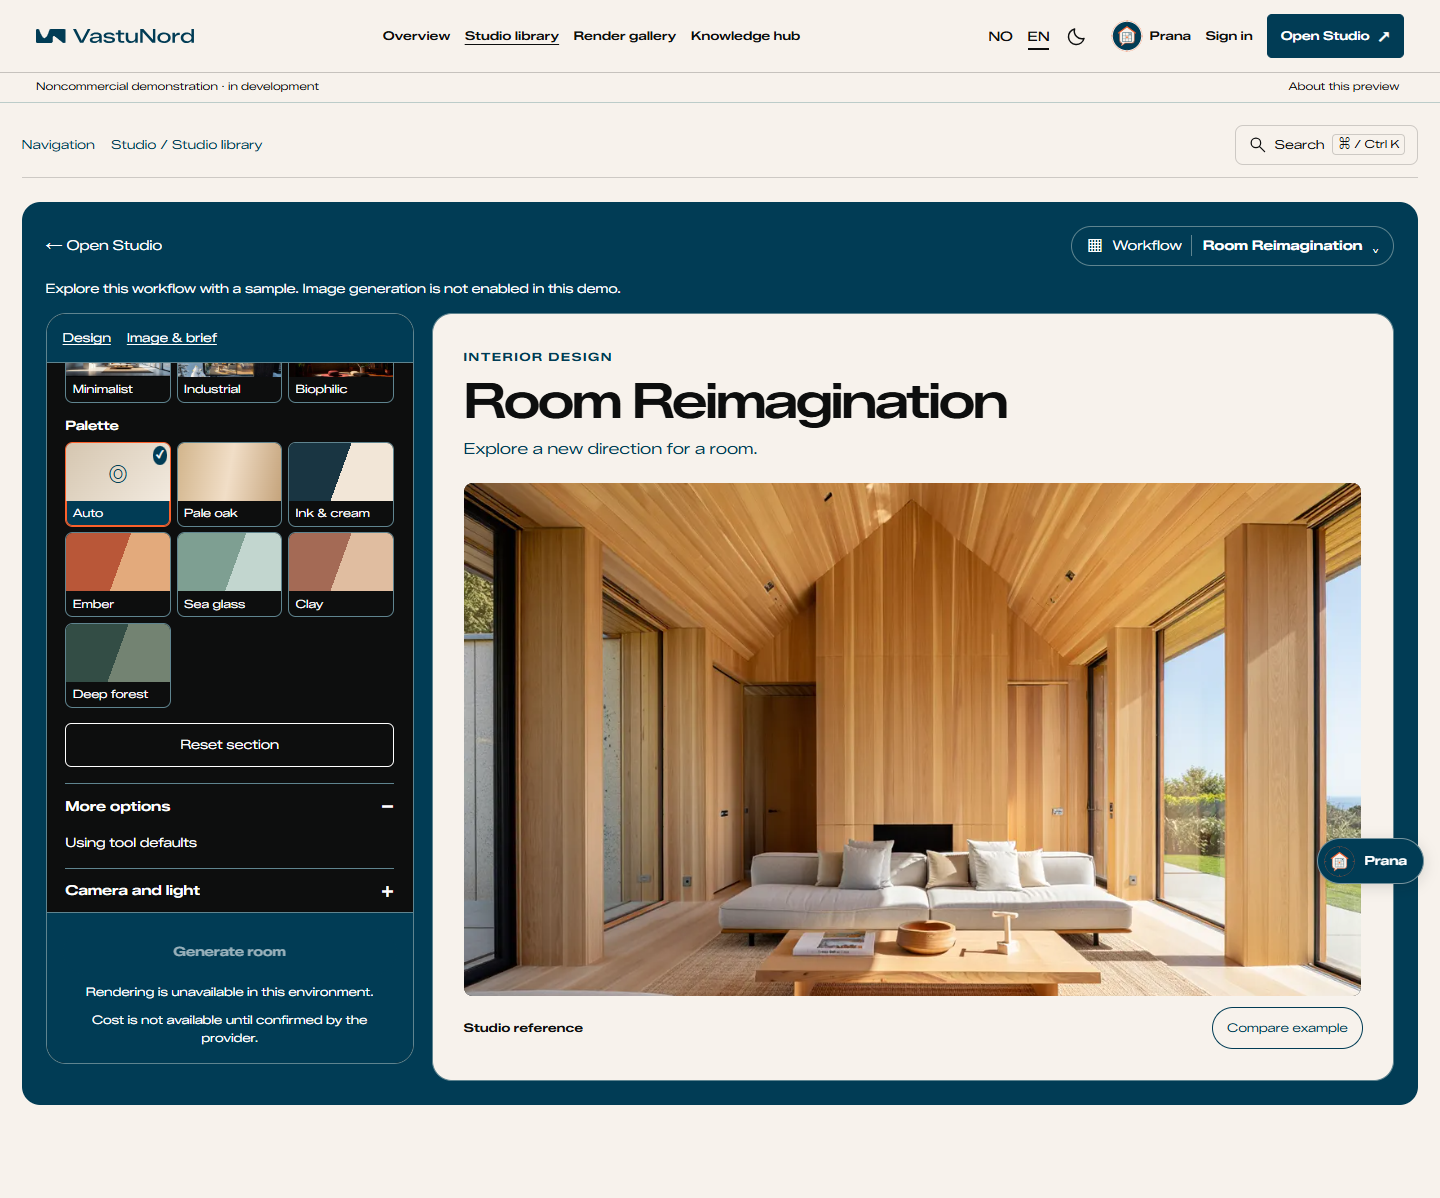
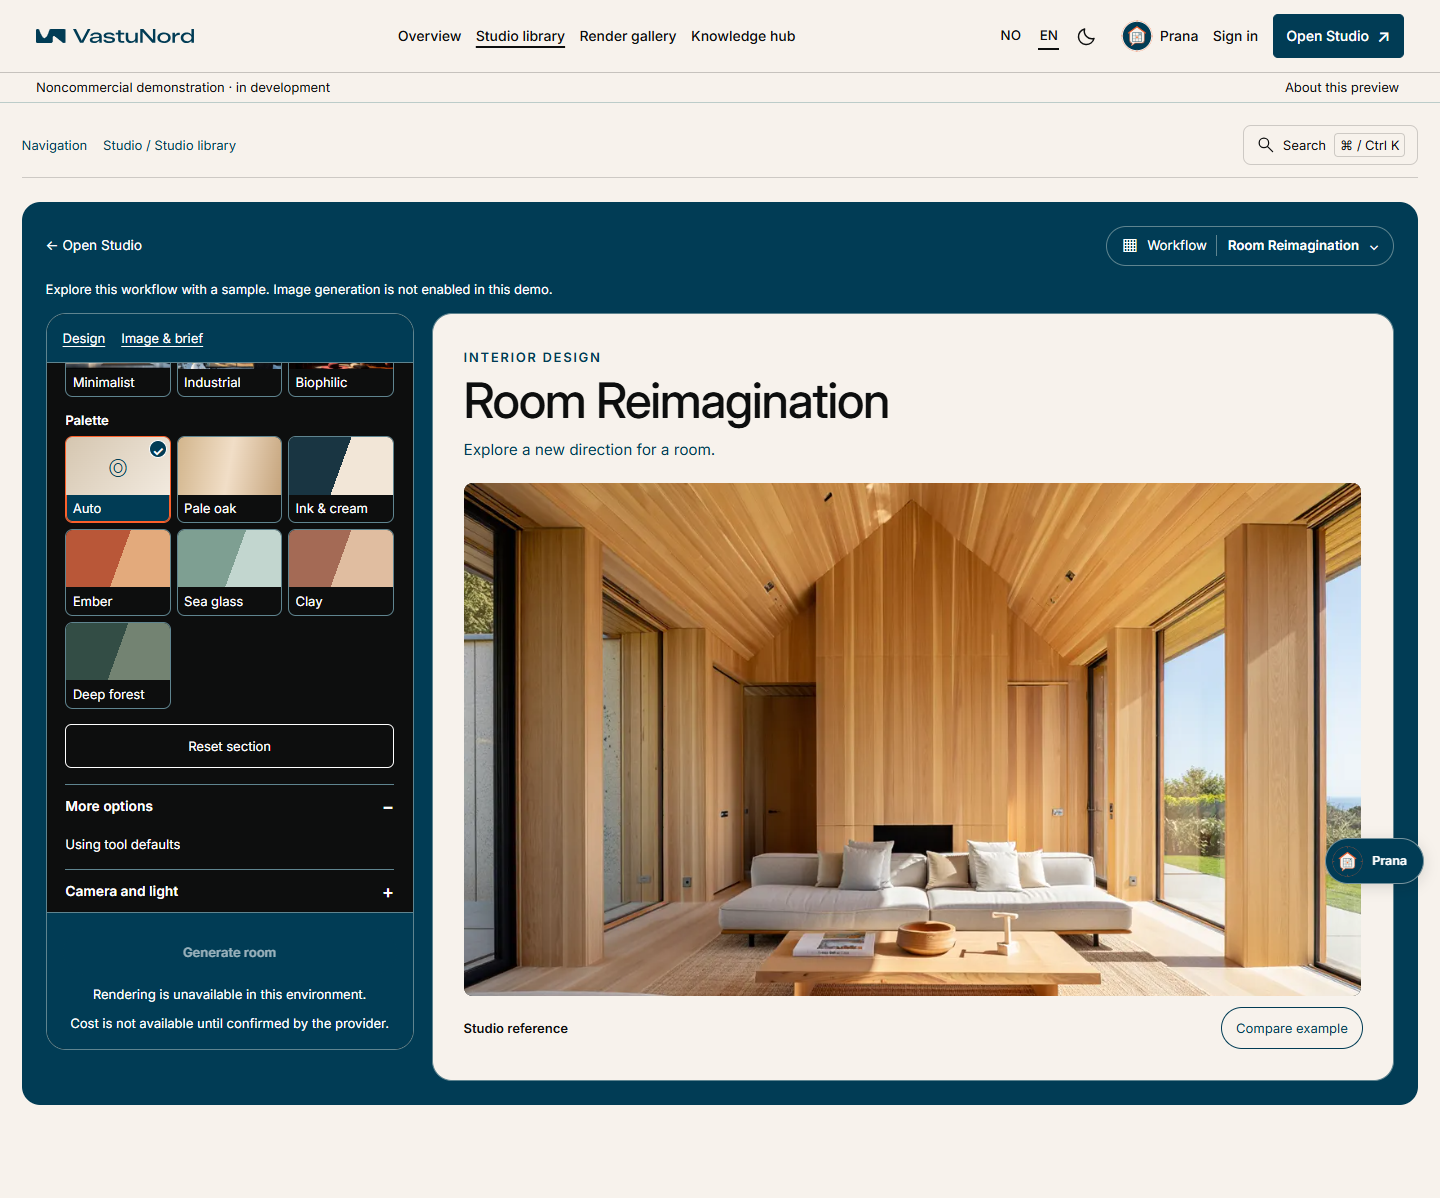
Record verified public release, provider evidence and Production schema blocker

diff --git a/apps/web/tests/newsletter-browser/axe-broad.spec.ts b/apps/web/tests/newsletter-browser/axe-broad.spec.ts
@@ -6,9 +6,10 @@ const plugin = createRequire(createRequire(require.resolve("eslint-config-next")
 const axeScript = plugin.resolve("axe-core/axe.min.js");
 
 for (const theme of ["light", "dark"]) {
-  for (const route of ["/en", "/en/login", "/app/tools/room-reimagination", "/app/renders"]) {
+  for (const route of ["/", "/en", "/en/login", "/app/tools/room-reimagination", "/app/renders"]) {
     test(`axe WCAG-tagged sample on ${route} in ${theme}`, async ({ page, context }) => {
-      await page.setViewportSize({ width: 390, height: 844 });
+      const home = route === "/" || route === "/en";
+      await page.setViewportSize(home ? { width: 375, height: 568 } : { width: 390, height: 844 });
       await context.addCookies([{ name: "vn-theme", value: theme, url: "http://127.0.0.1:3111" }]);
       await page.addInitScript(() => {
         localStorage.setItem("vn-cookie-choices", JSON.stringify({ version: 1, decidedAt: new Date().toISOString(), statistics: false, marketing: false }));
@@ -16,6 +17,16 @@ for (const theme of ["light", "dark"]) {
       });
       await page.route("https://**/*", (route) => route.abort());
       await page.goto(route);
+      if (home) {
+        await expect(page.locator("html")).toHaveAttribute("lang", route === "/" ? "nb-NO" : "en");
+        const cta = page.locator(".photo-hero-actions .mk-action").first();
+        await expect(cta).toHaveCSS("font-size", "24px");
+        const usesLocalFont = await cta.evaluate(async (element) => {
+          const faces = await document.fonts.load('600 24px "Inter Variable"');
+          return faces.length > 0 && getComputedStyle(element).fontFamily.includes("Inter Variable");
+        });
+        expect(usesLocalFont).toBe(true);
+      }
       await page.addScriptTag({ path: axeScript });
       const result = await page.evaluate(async () => {
         const axe = (window as unknown as { axe: { run: (context: Document, options: unknown) => Promise<{ violations: { id: string; nodes: { target: string[]; html: string; failureSummary?: string }[] }[]; incomplete: { id: string; nodes: { target: string[] }[] }[] }> } }).axe;

diff --git a/docs/GO_LIVE_EXECUTION.md b/docs/GO_LIVE_EXECUTION.md
@@ -1,5 +1,31 @@
 # Hobby test release execution
 
+## 28 November · Controlled activation and provider preflight
+
+Two Vercel API lookups independently resolved the public alias and source revision. Four public routes and all 17 Studio editors passed on the public hostname. The guide toggle worked, and homepage/Studio passed 32 responsive checks across English and Norwegian, light and dark, and 390/768/1280/1440-pixel widths. [Public response record](evidence/designer-parity/public-origin.json) · [Live screenshots](evidence/maya-live/ui11/)
+
+| Production journey | Latest evidence |
+|---|---|
+| Signup, verification, original-password sign-in, recovery and return | BLOCKED by the missing schema. The protected binding and approved sender configuration passed. Better Auth workflow checks passed with isolated data. |
+| Google new user, returning sign-in, cancel, callback and linking | BLOCKED for live accounts. The correct public client reached Google sign-in. Controlled cancellation and locale handling passed locally. |
+| Owned project and private source/reference upload | BLOCKED. Storage identity is configured. Real user storage and access await account and project tables. |
+| MNML submission, job attachment, before/after, download and fresh-session reopening | BLOCKED. Price/balance discovery passed live. Disposable database tests exercised persistence and private result access. |
+| Anonymous and second-user denial | Closed public services returned 503. Anonymous private-artifact denial is NOT TESTED on Production. Live second-user isolation is PENDING. |
+| Prana | PASS for the two synthetic provider calls. Authenticated public-origin replies await account activation. |
+| Billing | DISABLED. The temporary rendering allowance only covers the authorized tester. |
+
+**Local verification.** Prisma validation and manifest integrity, TypeScript, ESLint and the optimized Next.js build passed. All 80 unit tests passed. Disposable database tests passed for render persistence, ownership, withdrawal, runtime grants, bounded enrollment and reservation retention. Three localized authentication browser tests passed. The initial broad smoke run passed 170 of 173 tests; the three failures were outdated assertions about local file selection, language and reveal direction. The initial newsletter/overlay run passed 88 of 94 tests; six detected the orange hero CTA contrast defect. After repair, all 26 affected Studio/hero tests and all 30 contrast/reflow tests passed on the final build. The staged and public results above are recorded separately.
+
+**Promoted application:** `063004adab6cb724a9c991a16f5bf48551f76bdd` on `feat/v7-brand-photo-entry`, deployment `dpl_73u64PMMRJcCDaVeYCm9JsEUKNdD`. **Application rollback:** `dpl_J7A2mFG1SnhoJoB4aUnrGVrFp8oh`, revision `672577a7c17298b8d52bf1c17f305b85c71ef1c2`. Promotion reused the staged Production artifact. The provider probe again passed all nine checks. Private service flags, GitHub/Apple OAuth, newsletter and billing remain disabled. Rollback reassigns application traffic and does not restore database state.
+
+Vercel staged `1ed73d499b9b3f88419c585bac1973f322f7d690` as `dpl_6FqmCCGhj4gL4vaVmDTLEesWJXh2`. The read-only build connected as the intended restricted Production runtime. All nine protected configuration/provider checks passed after correcting the Google client ID. Two fixed synthetic consultation questions through the real Prana adapter returned relevant short answers in English and Norwegian from GroqCloud. This exercised the provider directly in the staged build. The visitor-facing consultation still requires an authenticated tester. Chat charges were not itemized by this check. A public OAuth initiation reached Google's sign-in screen with the exact approved callback; neither consent nor account linking was exercised on Production.
+
+Production database `neondb` on `br-wild-unit-bhin6sli` remains empty. The connector verified the restricted runtime identity, zero public application tables, absent Prisma history, and absent `vastunord_prod_migrator`. Recovery child `br-royal-mode-bh8zoq0h` is available from parent LSN `0/1C57580`. A whole-branch restore remains untested. Preserve the recovery point, validate a reconstructed child before any recovery, and obtain separate authorization for a destructive restore.
+
+All six migration hashes passed. Automatic approval review rejected the requested Production login and schema CREATE grant. No migration, runtime grant or tester enrollment ran on Production. Once approved, use the protected `scripts/run-production-migration.ps1` status check, `-Apply`, a second status check and `-RuntimeGrants`. Enable controlled authentication first. After verifying the invited account and private storage, use `-EnrollTester`; it verifies compatible existing history, preserves holds and never extends an existing campaign. The first Production enrollment would start a 24-hour acceptance window. Budget administration remains outside the web runtime.
+
+Historical job `674349` counts conservatively as one attempt and US$0.099. This execution submitted zero MNML jobs, incurred US$0 in new render charges, and added no holds. Five further attempts and US$0.495 remain at most. No automatic retries following an uncertain submission. Public commercial operation requires eligible hosting; controlled acceptance uses the existing Hobby plan. [Vercel Hobby terms](https://vercel.com/docs/plans/hobby)
+
 ## 28 November · Studio demonstration release
 
 Vercel promoted application revision `672577a7c17298b8d52bf1c17f305b85c71ef1c2`, deployment `dpl_J7A2mFG1SnhoJoB4aUnrGVrFp8oh`, to [the public demo](https://vastunord-web.vercel.app/). The immediate application rollback is `dpl_jKKoVxyVLSkVCZgDEGdcHeqHazrj` from `4c8a8409f1616686acf30f2a52ee565283f08cab`. The build confirmed the restricted Production database connection and missing schema. Customer onboarding, uploads, paid dispatch and billing remain closed.

diff --git a/docs/MAYA_VERIFICATION.md b/docs/MAYA_VERIFICATION.md
@@ -23,3 +23,15 @@ These results use synthetic local data and controlled provider responses. They d
 | MAYA-C08 | PARTIAL | Local unit suite: 66 passed. The 164-test shared browser regression passed on the prior built candidate; the final Webpack build passed after read-only settings and mobile reset refinements. A targeted final browser recheck covers those layout refinements. Full Maya acceptance and live gates are not complete. |
 
 Update: the additive migration `20261127_maya_submission_settings` was applied to Preview using the reviewed target-pinned Prisma procedure, with its checksum and runtime column permissions verified. The separate newsletter migration remains pending; runtime application save/read and release/Production migration remain unverified. No new paid render, production change, push or deployment occurred.
+
+## Workflow image review, November 28
+
+The library, workflow switcher and gallery picker share stable tool IDs. Fourteen cards now show paired examples. Three retain the original owner photographs of paving, pool geometry and garden planting. All seventeen were inspected at a 231 × 140 crop. The five generated comparison studies are illustrative examples produced with the built-in image tool; they contain no customer media or MNML results. The remaining illustrations use owner-approved BeforeAfter, Maya pack and Visuals imagery. The hallway choice uses a corridor photograph and the sketch choice uses the Maya pencil study.
+
+[Small-card contact sheet](evidence/maya-local/workflow-crops.webp) · [Image sources, dimensions, crops and derivative checksums](evidence/maya-local/workflow-art.json).
+
+On the source candidate recorded as `1ed73d4`, local Edge verified all eleven hero pairs in sequence with a controlled clock, including both endpoints, the midpoint, wrap, reload and a deliberate keyboard pause. All four hero cases passed on the warmed server. The initial Webpack route compilation took 31 seconds and exceeded one test’s 30-second limit. The five pool-mode and responsive Room Reimagination tests also passed. Sixteen combinations of 390/768/1280/1440px, Norwegian/English and light/dark passed on both the homepage and Room Reimagination (32 page checks). The local harness verified Inter glyph loading, viewport fit, theme, locale and the heights of visible compact choices. Physical-device use, comprehensive alignment with external designer frames and account-backed cloud behavior require separate evidence.
+
+[Local screenshots at original, midpoint, result and next original](evidence/maya-local/ui11/) · [Typography provenance](BRAND_PARITY.md) · [Repeatable responsive harness](../apps/web/scripts/verify-ui11.mjs).
+
+At `063004a`, the orange homepage action uses 24px Inter, weight 600, meeting the 3:1 large-text threshold with white lettering (3.08:1). Four local axe runs at 375 × 568 passed across Norwegian/English and light/dark. For the six image-backed targets axe left unresolved, paired screenshots with text shown and transparent measured the background under near-solid glyph pixels. The lowest sampled contrasts were 11.81:1 for each of the four direction labels and closing Studio link, 7.31:1 for the English closing heading and 7.33:1 for Norwegian. These measurements apply to the sampled local viewport and imagery.

diff --git a/docs/ENVIRONMENT_VARIABLE_INVENTORY.md b/docs/ENVIRONMENT_VARIABLE_INVENTORY.md
@@ -1,5 +1,7 @@
 # Environment variable inventory
 
+The Production catalog probe on deployment `dpl_GnK4X3zEHxx6xpWvAcx9dgStRfzL` verified the MNML catalog, authorized price and sufficient balance for one attempt. It also verified the selected GroqCloud model, private Blob store binding/server identity, approved Resend sender settings and Google secret presence. It detected a mismatch in `GOOGLE_CLIENT_ID`. Vercel confirmed replacement of this one Production variable. An unauthenticated request using the approved client and canonical callback reached Google's sign-in screen. [Latest release verification](GO_LIVE_EXECUTION.md)
+
 ## Controlled acceptance release
 
 The staging script archives the selected Git HEAD and deploys to the linked Production project with domain assignment held back. The following flags default to false. They are supplied to both the build and server runtime.
@@ -14,6 +16,8 @@ The staging script archives the selected Git HEAD and deploys to the linked Prod
 | `GOOGLE_OAUTH_ENABLED` | The approved Google client, protected client secret and canonical callback origin. Real consent and returning sign-in require separate evidence. |
 
 The optional staging switch `-VerifyProviders` sets `VN_PROBE_RELEASE_PROVIDERS=1` only in the build. It checks the authenticated MNML catalog and prepaid balance for one v4.5-fast image at US$0.099, and lists Groq models for `openai/gpt-oss-20b`. It also checks Google configuration, Resend sender configuration and the pinned Blob binding. Logs contain booleans. These checks generate no images or text and send no email. Production behavior and actual consumption belong in the [release evidence](GO_LIVE_EXECUTION.md).
+
+Once the invited Production account has verified its email, the protected operator command `scripts/run-production-migration.ps1 -EnrollTester` records its allowance under `mnml-674349-release-acceptance`. First enrollment on the empty release ledger sets a 24-hour window and reserves the historical attempt outside the five remaining. Replaying enrollment preserves the original window, caps and all existing attempt states. An expired, paused or conflicting ledger requires reconciliation before further submissions.
 
 ## 28 November · Corrected Production runtime binding
 

diff --git a/docs/BLOCKERS_AND_OWNER_ACTIONS.md b/docs/BLOCKERS_AND_OWNER_ACTIONS.md
@@ -1,5 +1,11 @@
 # Blockers and owner actions
 
+## 28 November · Production schema approval
+
+The Frankfurt Production runtime binding passed. The database still has zero application tables and no Prisma history. Automatic approval review declined creation of the missing migration login because it required direct confirmation after its earlier rejection. The operation permits persistent schema objects. The requested confirmation is “I authorize creating vastunord_prod_migrator with LOGIN, CONNECT on neondb, and USAGE and CREATE on schema public on Vastu Nord Production branch br-wild-unit-bhin6sli.” The restricted runner rejects database-wide CREATE and administrative roles.
+
+After approval, apply the six checksum-verified migrations and runtime grants, then enable controlled email acceptance before enrolling the verified tester. The owner participates in mailbox and Google consent checks when those screens become available. Recovery child `br-royal-mode-bh8zoq0h` is available at parent LSN `0/1C57580`. A restore rehearsal remains outstanding.
+
 ## 28 November · Corrected Production runtime binding
 
 The Production runtime connection has passed. The remaining infrastructure action is a protected Production migration runner. Automatic approval review rejected creating a persistent Production login with schema CREATE. Provide a suitable restricted runner, or specifically authorize creating `vastunord_prod_migrator` on Frankfurt Production with LOGIN, CONNECT on `neondb` and USAGE/CREATE on schema `public`. Schema CREATE allows persistent database objects. Keep its password outside the web runtime and chat. The owner already authorized the six migrations and bounded test campaign. The earlier two-item diagnostic handoff below is historical.

diff --git a/docs/PROJECT_STATE.md b/docs/PROJECT_STATE.md
@@ -1,5 +1,11 @@
 # Vastu Nord — current project handoff (living document)
 
+## 28 November · Controlled account and rendering activation
+
+Vercel promoted [the public release](https://vastunord-web.vercel.app/) from `063004adab6cb724a9c991a16f5bf48551f76bdd`, deployment `dpl_73u64PMMRJcCDaVeYCm9JsEUKNdD`. Application rollback is `dpl_J7A2mFG1SnhoJoB4aUnrGVrFp8oh`. The new candidate retains the nine verified Production bindings, fixes the homepage button contrast and includes all 17 editors. Two real GroqCloud text replies passed in the preceding staged build. Production signup, uploads, private rendering and account-based Prana await the database role approval.
+
+The release candidate adds tester-only Production authentication and explicit Google linking, reviewable runtime grants, invitation-scoped Prana and a protected enrollment command for the existing MNML allowance. The staged server authenticated to the provider catalogs. Vercel's Production Google client ID was corrected after the build found a mismatch. Six migrations remain pending on Frankfurt Production and block the first live private project. [Release results](GO_LIVE_EXECUTION.md) · [Required approval](BLOCKERS_AND_OWNER_ACTIONS.md)
+
 ## 28 November · Studio demonstration release
 
 Vercel promoted application revision `672577a7c17298b8d52bf1c17f305b85c71ef1c2`, deployment `dpl_J7A2mFG1SnhoJoB4aUnrGVrFp8oh`, to [the public demo](https://vastunord-web.vercel.app/). The immediate application rollback is `dpl_jKKoVxyVLSkVCZgDEGdcHeqHazrj` from `4c8a8409f1616686acf30f2a52ee565283f08cab`. The build confirmed the restricted Production database connection and missing schema. Customer onboarding, uploads, paid dispatch and billing remain closed.

diff --git a/docs/CHANGELOG.md b/docs/CHANGELOG.md
@@ -1,5 +1,11 @@
 # Development change log (compact)
 
+## 28 November · Controlled Production acceptance
+
+Promoted application `063004a` to the public alias after correcting the Production Google OAuth client and homepage action contrast. The protected staged build confirmed the MNML single-image price and balance, approved Google client, Resend sender, private Blob binding and Groq model. The migration runner is pending platform approval.
+
+Added a server-enforced tester invitation, explicit Google account linking, independent authentication/media/provider checks, a protected runtime-grant and enrollment procedure, and a fresh-session private-render verifier. The hero now reveals each original from left to right into its result. Studio uses reviewed workflow thumbnails and self-hosted Inter. [Release record](GO_LIVE_EXECUTION.md)
+
 ## 28 November · Studio demonstration release
 
 Vercel promoted application revision `672577a7c17298b8d52bf1c17f305b85c71ef1c2`, deployment `dpl_J7A2mFG1SnhoJoB4aUnrGVrFp8oh`, to [the public demo](https://vastunord-web.vercel.app/). The immediate application rollback is `dpl_jKKoVxyVLSkVCZgDEGdcHeqHazrj` from `4c8a8409f1616686acf30f2a52ee565283f08cab`. The build confirmed the restricted Production database connection and missing schema. Customer onboarding, uploads, paid dispatch and billing remain closed.

diff --git a/docs/JOURNEY_PARITY_MATRIX.md b/docs/JOURNEY_PARITY_MATRIX.md
@@ -1,5 +1,9 @@
 # Studio journey parity
 
+## Controlled account-to-render acceptance
+
+The isolated account and render tests cover a verified owner's project, source asset, output and persistence. The Production verifier checks both private images, the comparison, download digest and a fresh sign-in. Run it against a real saved job after schema setup and owner sign-in. Closed-service HTTP 503 responses leave artifact-specific denial unverified. [Release evidence](GO_LIVE_EXECUTION.md)
+
 The board covers eight areas. The transitions below use the designer's arrow ends and labels. The [full node and connector register](release-execution/reference-evidence/FIGJAM_JOURNEY_NODES_AND_EDGES.json) includes the other paths and branches. The [source findings](release-execution/reference-evidence/FIGJAM_ACCESS_AND_JOURNEY_FINDINGS.md) explain conflicting and future requirements.
 
 | Group and actor | Entry, prerequisites and decisions | Destination, ownership and recovery | Implementation and evidence |

diff --git a/docs/BRAND_PARITY.md b/docs/BRAND_PARITY.md
@@ -32,3 +32,14 @@ The CSS retains the guide's PDF fill operands. The nearest 8-bit sRGB values bel
 | Sage | `--sage` | `#BCCCC9` |
 | Sand | `--sand` | `#EAD0B6` |
 | Orange | `--orange` | `#FB602B` |
+
+## November 28 ordinary-text update
+
+The owner's release instructions adopt Inter Variable 4.1 for site text. The unmodified upright WOFF2 is served from the application origin, with optical sizing and Arial fallback. The wordmark still uses the approved vector paths. The historical typography row above describes the earlier release.
+
+| File | SHA-256 |
+|---|---|
[2 lines of base64/hex data omitted]
+
+The Open Font License and copyright notice accompany the distributed font. [Official tagged source](https://github.com/rsms/inter/tree/v4.1/docs/font-files) · [Distributed license](../apps/web/public/fonts/inter/LICENSE.txt).

diff --git a/docs/AUDIT_REMEDIATION_TRACKER.md b/docs/AUDIT_REMEDIATION_TRACKER.md
@@ -1,5 +1,9 @@
 # Audit remediation tracker
 
+## Controlled Production acceptance
+
+Email and Google onboarding have a server-enforced invitation policy and explicit verified account linking. Protected build checks evaluate each requested service separately. The migration manifest and isolated runtime-grant tests cover the private project and render paths. [Current release evidence](GO_LIVE_EXECUTION.md)
+
 ## 28 November · Designer Studio and independent workspace release
 
 Independent private workspace start/retry, first-visit Skip, return to the intended Studio location, and clearing project/media/brief state on account switch passed controlled component and browser checks. Deployment and real account-to-render verification are recorded separately in [release evidence](GO_LIVE_EXECUTION.md).
